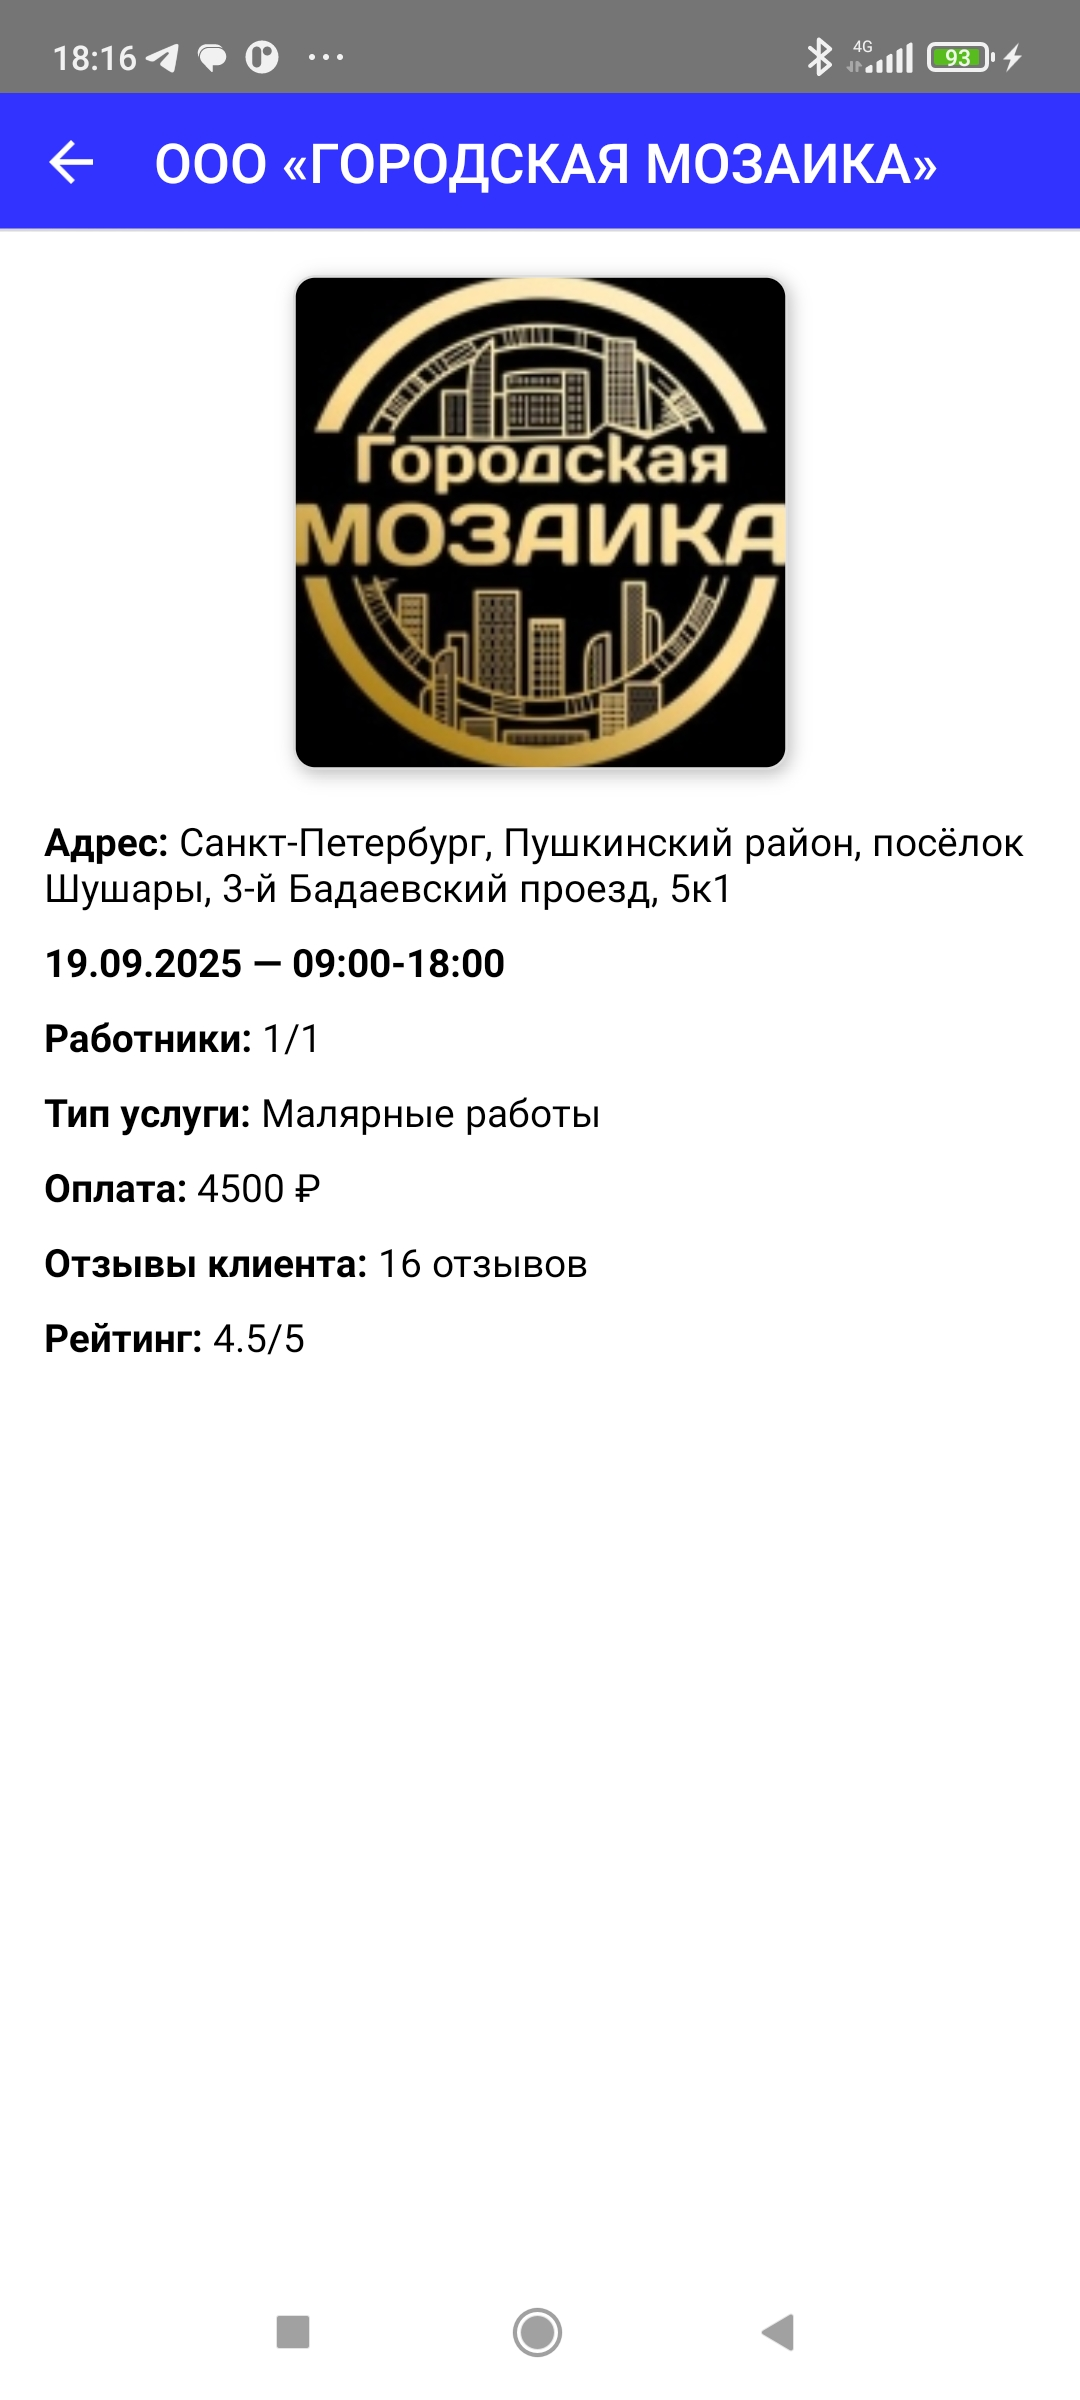
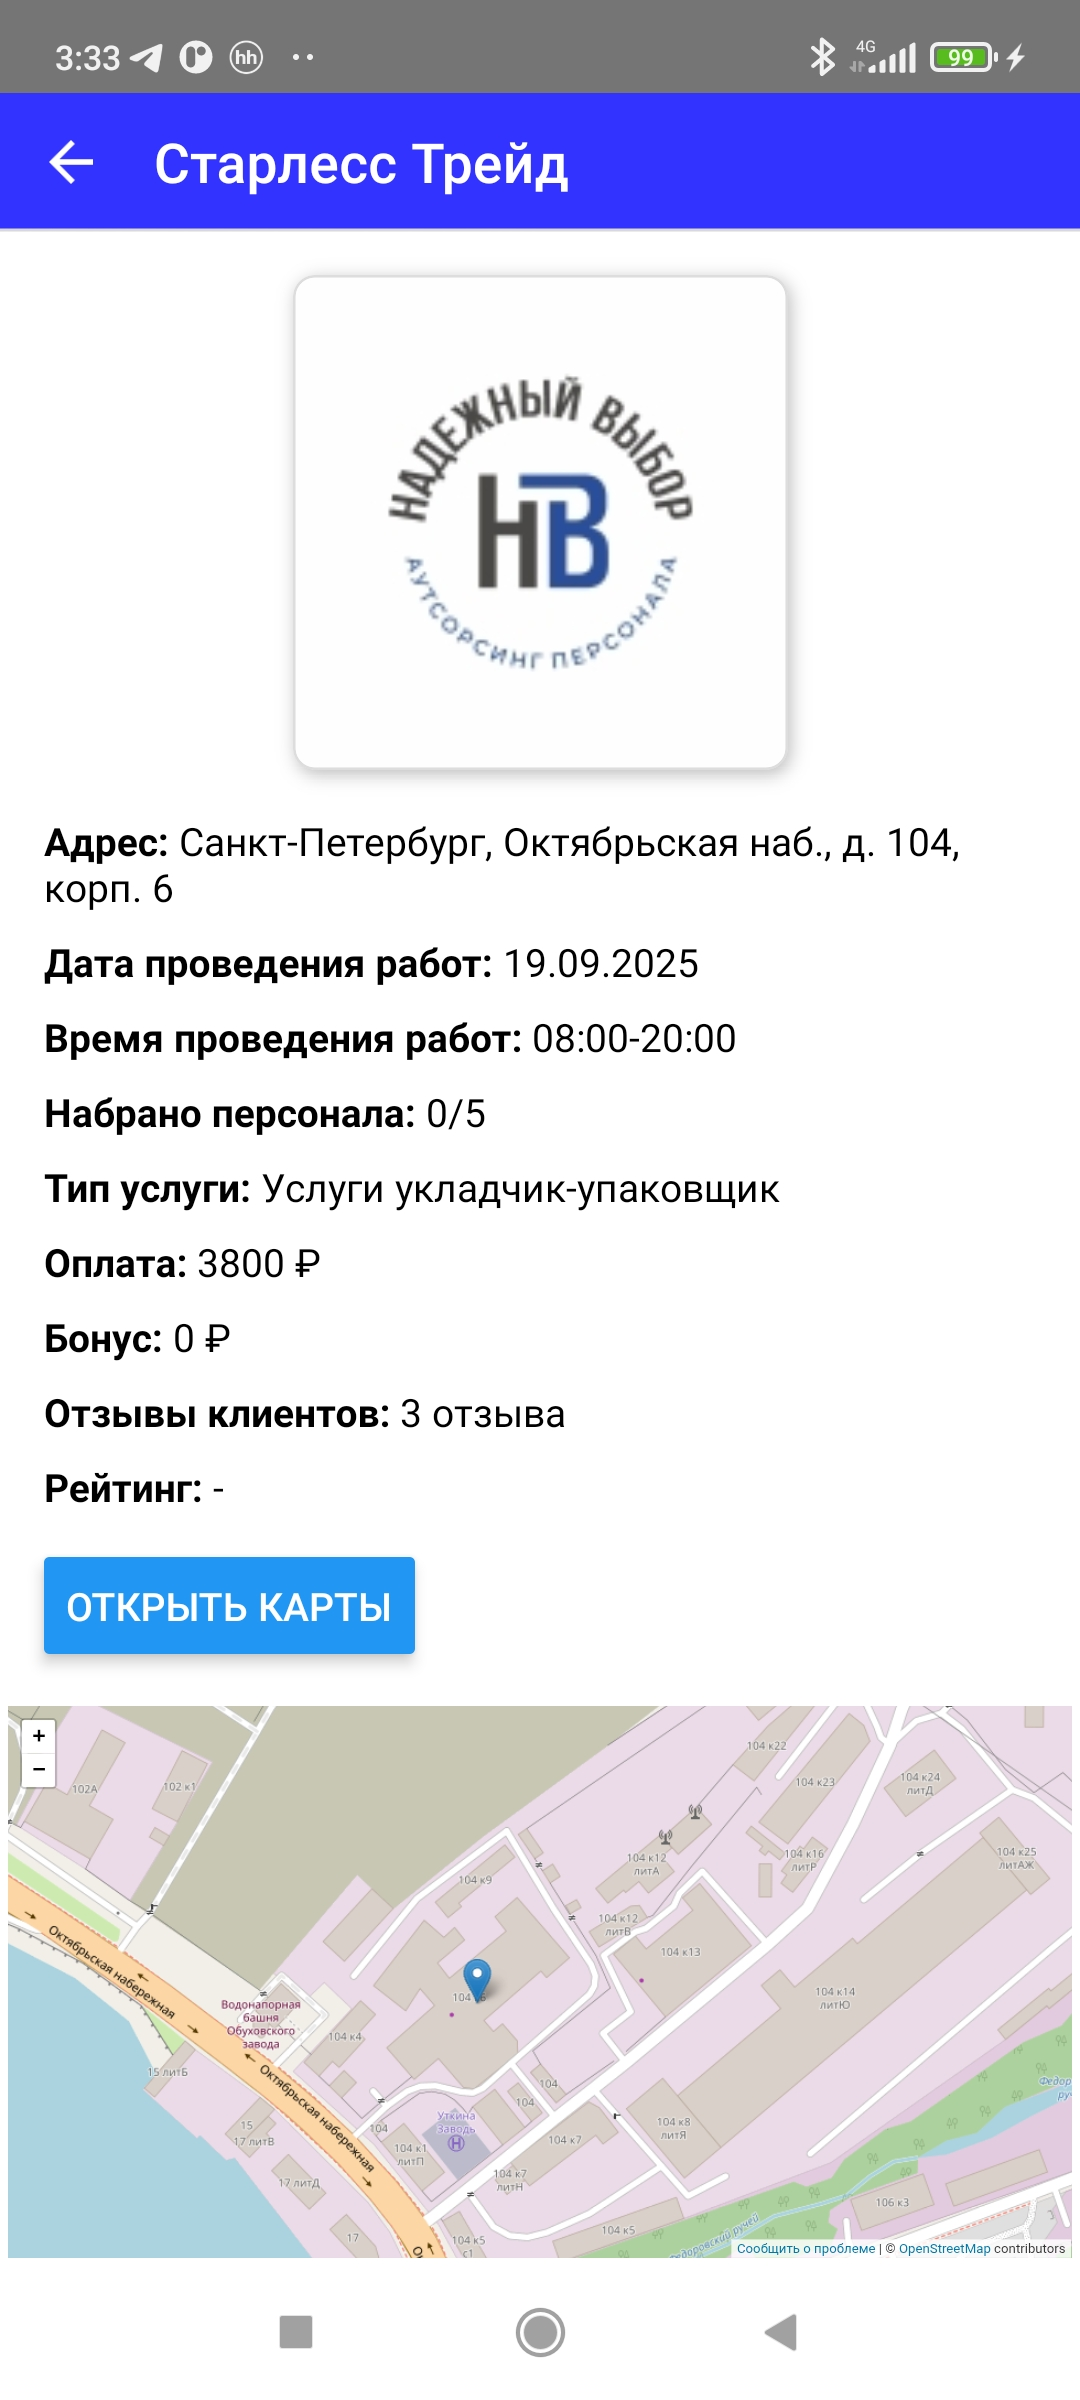
добавил карту, добавил открытие локации в приложениях для карт

diff --git a/src/screens/shiftDetailScreen/shiftDetailScreen.tsx b/src/screens/shiftDetailScreen/shiftDetailScreen.tsx
@@ -1,14 +1,34 @@
 import { ShiftCard } from "@features/shiftCard";
-import React from "react";
-import { View, StyleSheet } from "react-native";
-import { Shift } from "@entities/shift";
+import React, { useCallback } from "react";
+import { View, StyleSheet, Linking } from "react-native";
+import { MarkerMap } from "@shared/ui";
+import { StackScreenProps } from "@react-navigation/stack";
+import { ScreenName } from "@shared/constants";
+import { ScreenData } from "@shared/types";
 
-export const ShiftDetailScreen: React.FC = ({ route }) => {
-  const { shift }: { shift: Shift } = route.params;
+export const ShiftDetailScreen: React.FC<
+  StackScreenProps<ScreenData, ScreenName.Detail>
+> = ({ route }) => {
+  const { shift } = route.params;
+  const { latitude, longitude } = shift.coordinates;
+  const onOpenMap = useCallback(() => {
+    const url = `geo:${latitude},${longitude}`;
+
+    Linking.canOpenURL(url).then((supported) => {
+      if (supported) {
+        Linking.openURL(url);
+      } else {
+        console.log("Don't know how to open URI: " + url);
+      }
+    });
+  }, [latitude, longitude]);
 
   return (
     <View style={styles.container}>
-      <ShiftCard item={shift} />
+      <ShiftCard item={shift} onOpenMap={onOpenMap} />
+      <View style={styles.mapWrapper}>
+        <MarkerMap latitude={latitude} longitude={longitude} />
+      </View>
     </View>
   );
 };
@@ -20,4 +40,5 @@ const styles = StyleSheet.create({
     minHeight: "100%",
     alignItems: "center",
   },
+  mapWrapper: { paddingTop: 16 },
 });

diff --git a/src/features/shiftCard/shiftCard.tsx b/src/features/shiftCard/shiftCard.tsx
@@ -1,12 +1,15 @@
 import React from "react";
-import { View, Text, Image, StyleSheet } from "react-native";
+import { View, Text, Image, StyleSheet, Button } from "react-native";
 import { Shift } from "@entities/shift";
 
 type Props = {
   item: Shift;
+  onOpenMap: (longitude: number, latitude: number) => void;
 };
 
-export const ShiftCard: React.FC<Props> = ({ item }) => {
+export const ShiftCard: React.FC<Props> = ({ item, onOpenMap }) => {
+  const { latitude, longitude } = item.coordinates;
+
   return (
     <>
       <Image source={{ uri: item.logo }} style={styles.logo} />
@@ -43,18 +46,27 @@ export const ShiftCard: React.FC<Props> = ({ item }) => {
           <Text style={styles.title}>Отзывы клиентов: </Text>
           {item.customerFeedbacksCount}
         </Text>
-        <Text>
+        <Text style={styles.last}>
           <Text style={styles.title}>Рейтинг: </Text>
           {item.customerRating ? item.customerRating + "/5" : "-"}
         </Text>
+        <Button
+          title="Открыть карты"
+          onPress={() => onOpenMap(longitude, latitude)}
+        />
       </View>
     </>
   );
 };
 
 const styles = StyleSheet.create({
-  content: { justifyContent: "flex-start", width: "100%" },
+  content: {
+    justifyContent: "flex-start",
+    alignItems: "flex-start",
+    width: "100%",
+  },
   title: { fontWeight: "bold", fontSize: 14, paddingBottom: 8 },
+  last: { paddingBottom: 16 },
   padd: { paddingBottom: 8 },
   logo: {
     width: 180,

diff --git a/src/screens/shiftListScreen/shiftListScreen.tsx b/src/screens/shiftListScreen/shiftListScreen.tsx
@@ -12,6 +12,9 @@ import { ShiftList } from "@features/shiftList";
 import { userGeolocationSingletone } from "@store/userGeolocation";
 import { geolocationPermissionSingletone } from "@store/geolocationPermission";
 import { runInAction } from "mobx";
+import { StackScreenProps } from "@react-navigation/stack";
+import { ScreenData } from "@shared/types";
+import { ScreenName } from "@shared/constants";
 
 const requestLocationAndFetch = async () => {
   await userGeolocationSingletone.fetch();
@@ -24,7 +27,9 @@ const requestLocationAndFetch = async () => {
   });
 };
 
-const ShiftListScreenComponent: React.FC = ({ navigation }) => {
+const ShiftListScreenComponent: React.FC<
+  StackScreenProps<ScreenData, ScreenName.Detail>
+> = ({ navigation }) => {
   const granted = geolocationPermissionSingletone.granted;
   const { fixLocation } = userGeolocationSingletone;
 
@@ -59,7 +64,9 @@ const ShiftListScreenComponent: React.FC = ({ navigation }) => {
   return (
     <ShiftList
       items={shiftListSingletone.shifts}
-      onNavigation={(item) => navigation.navigate("Detail", { shift: item })}
+      onNavigation={(item) =>
+        navigation.navigate(ScreenName.Detail, { shift: item })
+      }
       isLoading={shiftListSingletone.isLoading}
     />
   );

diff --git a/src/shared/ui/markerMap.tsx b/src/shared/ui/markerMap.tsx
@@ -1,0 +1,25 @@
+import React from "react";
+import { useWindowDimensions } from "react-native";
+import WebView from "react-native-webview";
+
+type Props = {
+  latitude: number;
+  longitude: number;
+};
+
+export const MarkerMap: React.FC<Props> = ({ latitude, longitude }) => {
+  const { width } = useWindowDimensions();
+
+  return (
+    <WebView
+      source={{
+        html: `<iframe id="map" src="https://www.openstreetmap.org/export/embed.html?bbox=${
+          longitude - 0.001
+        },${latitude - 0.001},${longitude + 0.001},${
+          latitude + 0.001
+        }&layer=mapnik&marker=${latitude},${longitude}" style="border: 0; width: 100%; height: 500"></iframe>`,
+      }}
+      style={{ width }}
+    />
+  );
+};

diff --git a/src/shared/types.ts b/src/shared/types.ts
@@ -1,0 +1,8 @@
+import { Shift } from "@entities/shift";
+import { ScreenName } from "./constants";
+
+export type ScreenData = {
+  [ScreenName.Detail]: {
+    shift: Shift;
+  };
+};

diff --git a/src/shared/ui/index.ts b/src/shared/ui/index.ts
@@ -1,1 +1,2 @@
 export * from "./switch";
+export * from "./markerMap";
